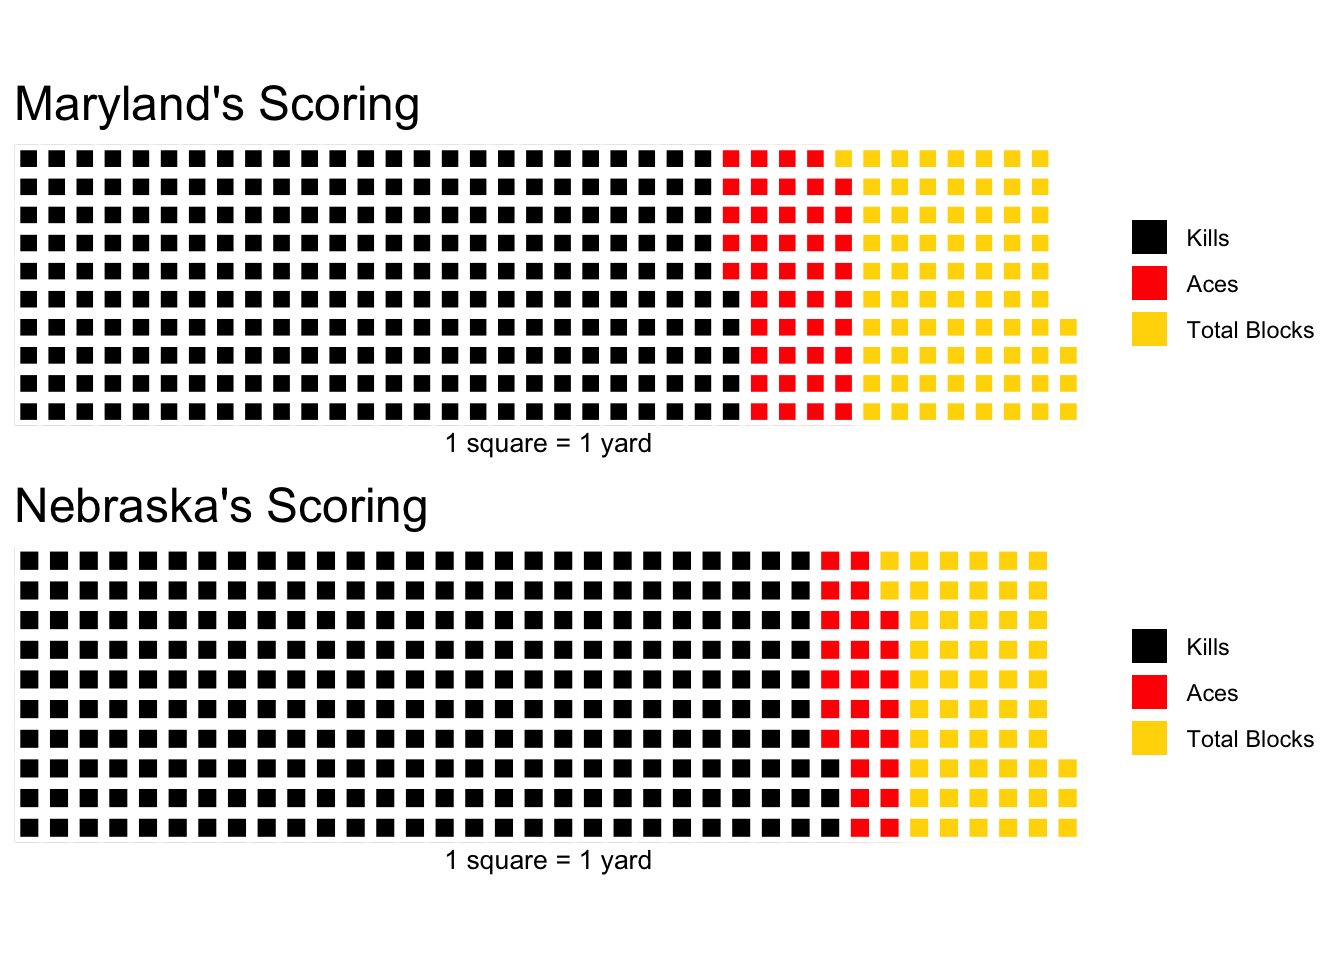
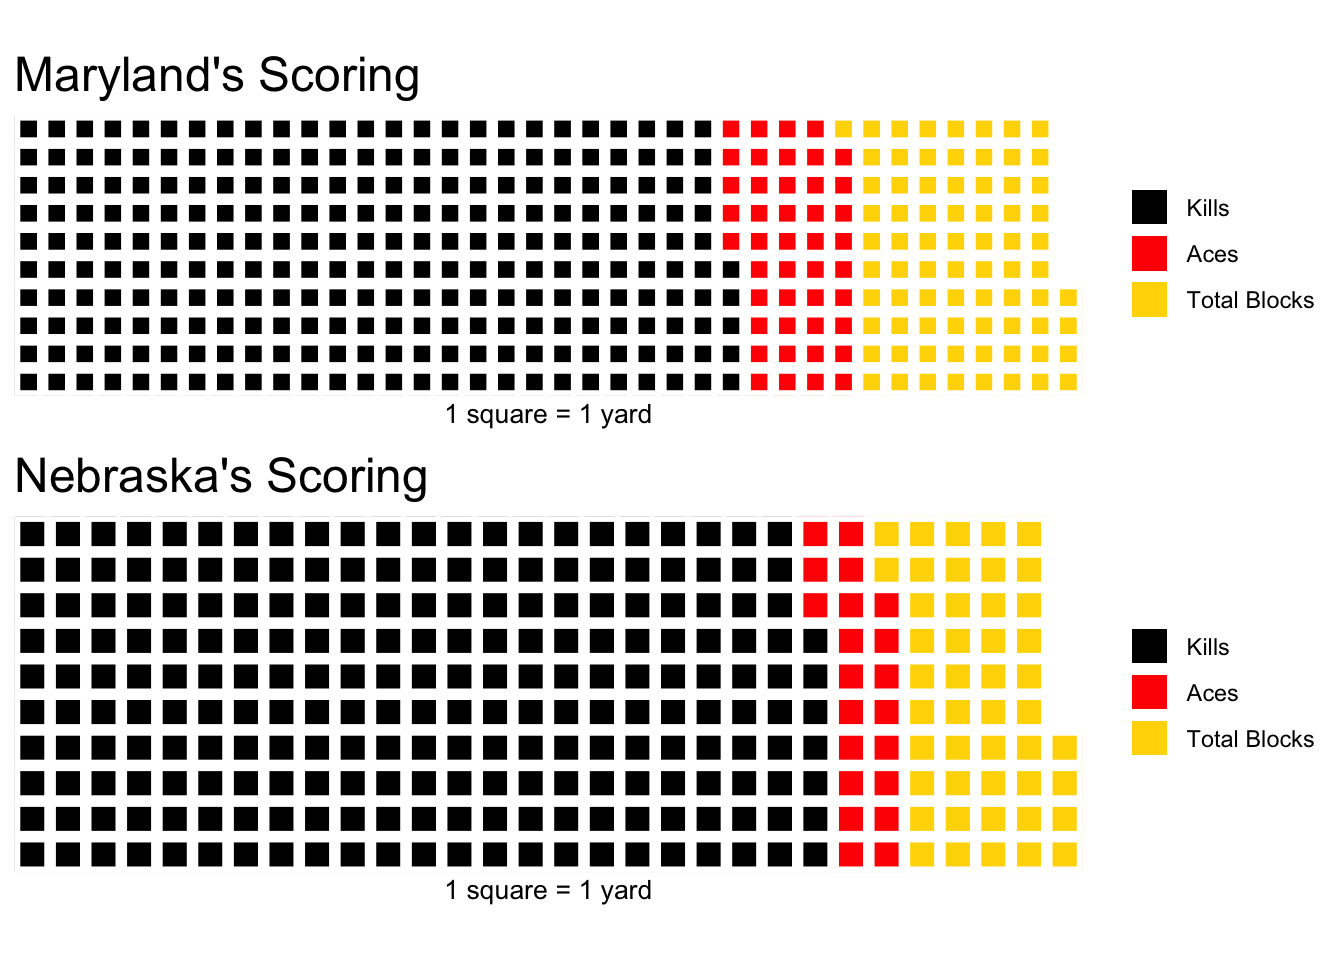
edit

diff --git a/2022/10/13/how-does-maryland-score-its-points/index.html b/2022/10/13/how-does-maryland-score-its-points/index.html
@@ -140,7 +140,7 @@
         xlab=&quot;1 square = 1 yard&quot;, 
         colors = c(&quot;black&quot;, &quot;red&quot;, &quot;gold&quot;)
         ),
- waffle(nb/2.5, 
+ waffle(nb/3, 
         rows = 10, 
         title=&quot;Nebraska&#39;s Scoring&quot;, 
         xlab=&quot;1 square = 1 yard&quot;,
@@ -149,7 +149,7 @@
 )</code></pre>
 <p><img src="https://iadecker.github.io/2022/10/13/how-does-maryland-score-its-points/index_files/figure-html/unnamed-chunk-9-1.png" width="672" />
 #Does Maryland score its points differently than Nebraska?</p>
-<p>Yes. Using offensive scoring only, Maryland seems to score more of its points in blocks and aces than Nebraska. It’s interesting to see how few of Nebraska’s points come from aces. Maybe they’re just really good at wearing other teams down and play a lot of long points. Or, they could just be really good at the net and get kills upon their opponent’s return.</p>
+<p>Yes, but not by much. Using offensive scoring only, Maryland seems to score more of its points in blocks and aces than Nebraska. It’s interesting to see how few of Nebraska’s points come from aces. Maybe they’re just really good at wearing other teams down and play a lot of long points. Or, they could just be really good at the net and get kills upon their opponent’s return.</p>
 <p>While both teams get a majority of their points from kills, the Cornhuskers seem to get more points from that metric than the Terps. Maryland might get more points from aces and blocks than Nebraska, but the latter is undefeated in conference play and 14-1 on the season, whereas Maryland is 1-5 in the B10 and 10-8 overall.</p>
 
     </div>
